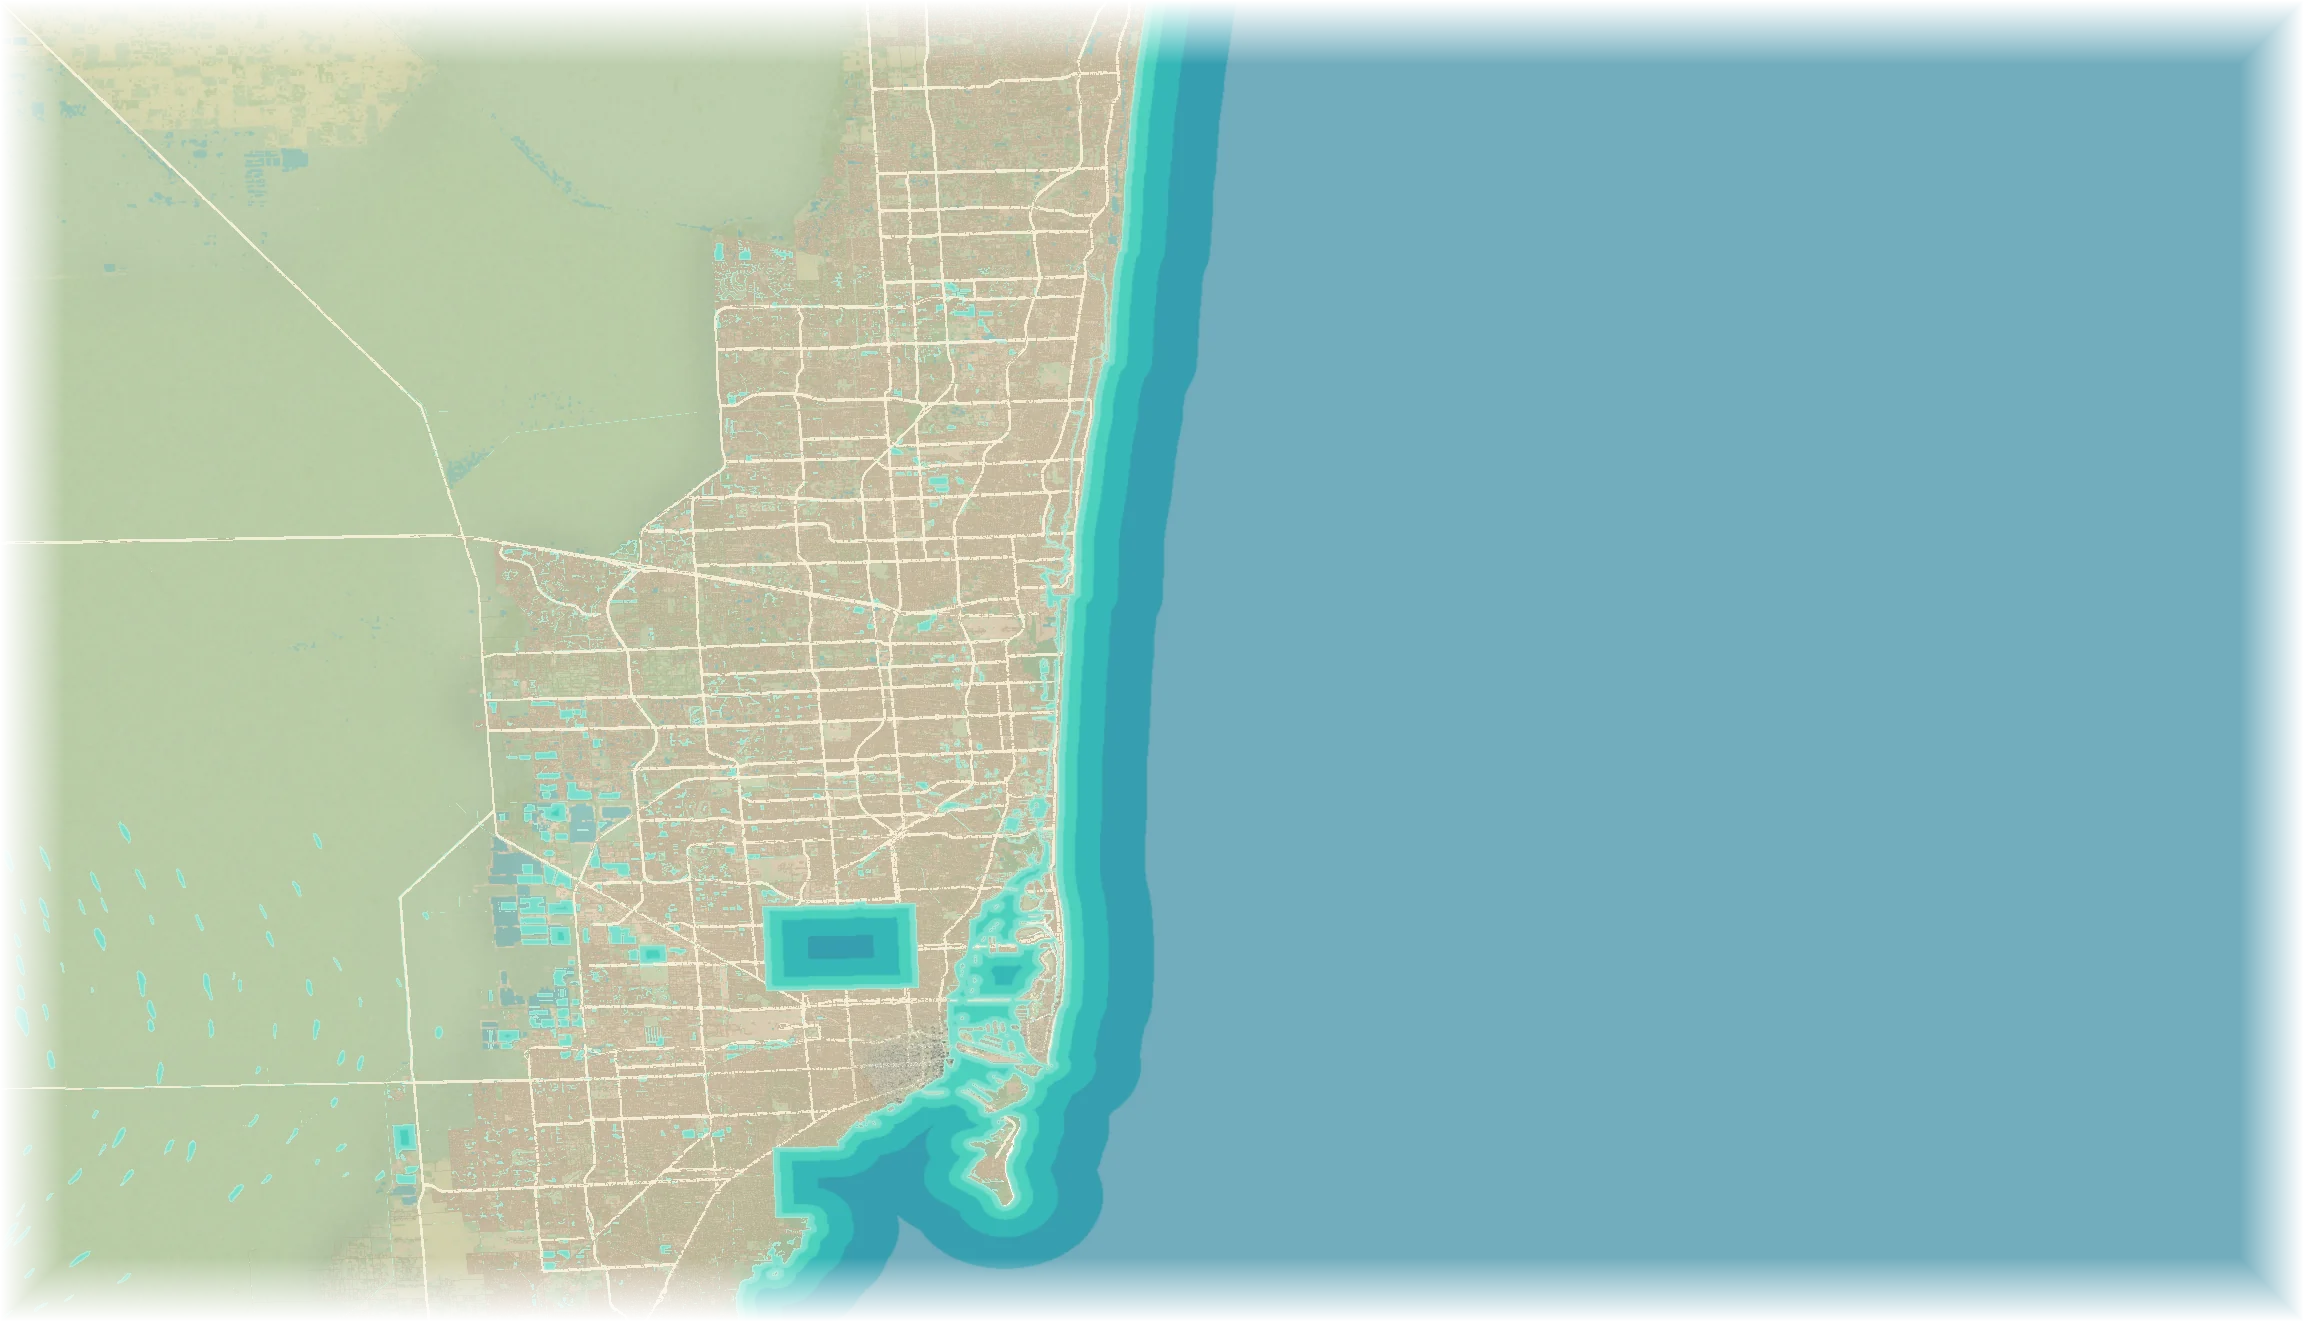
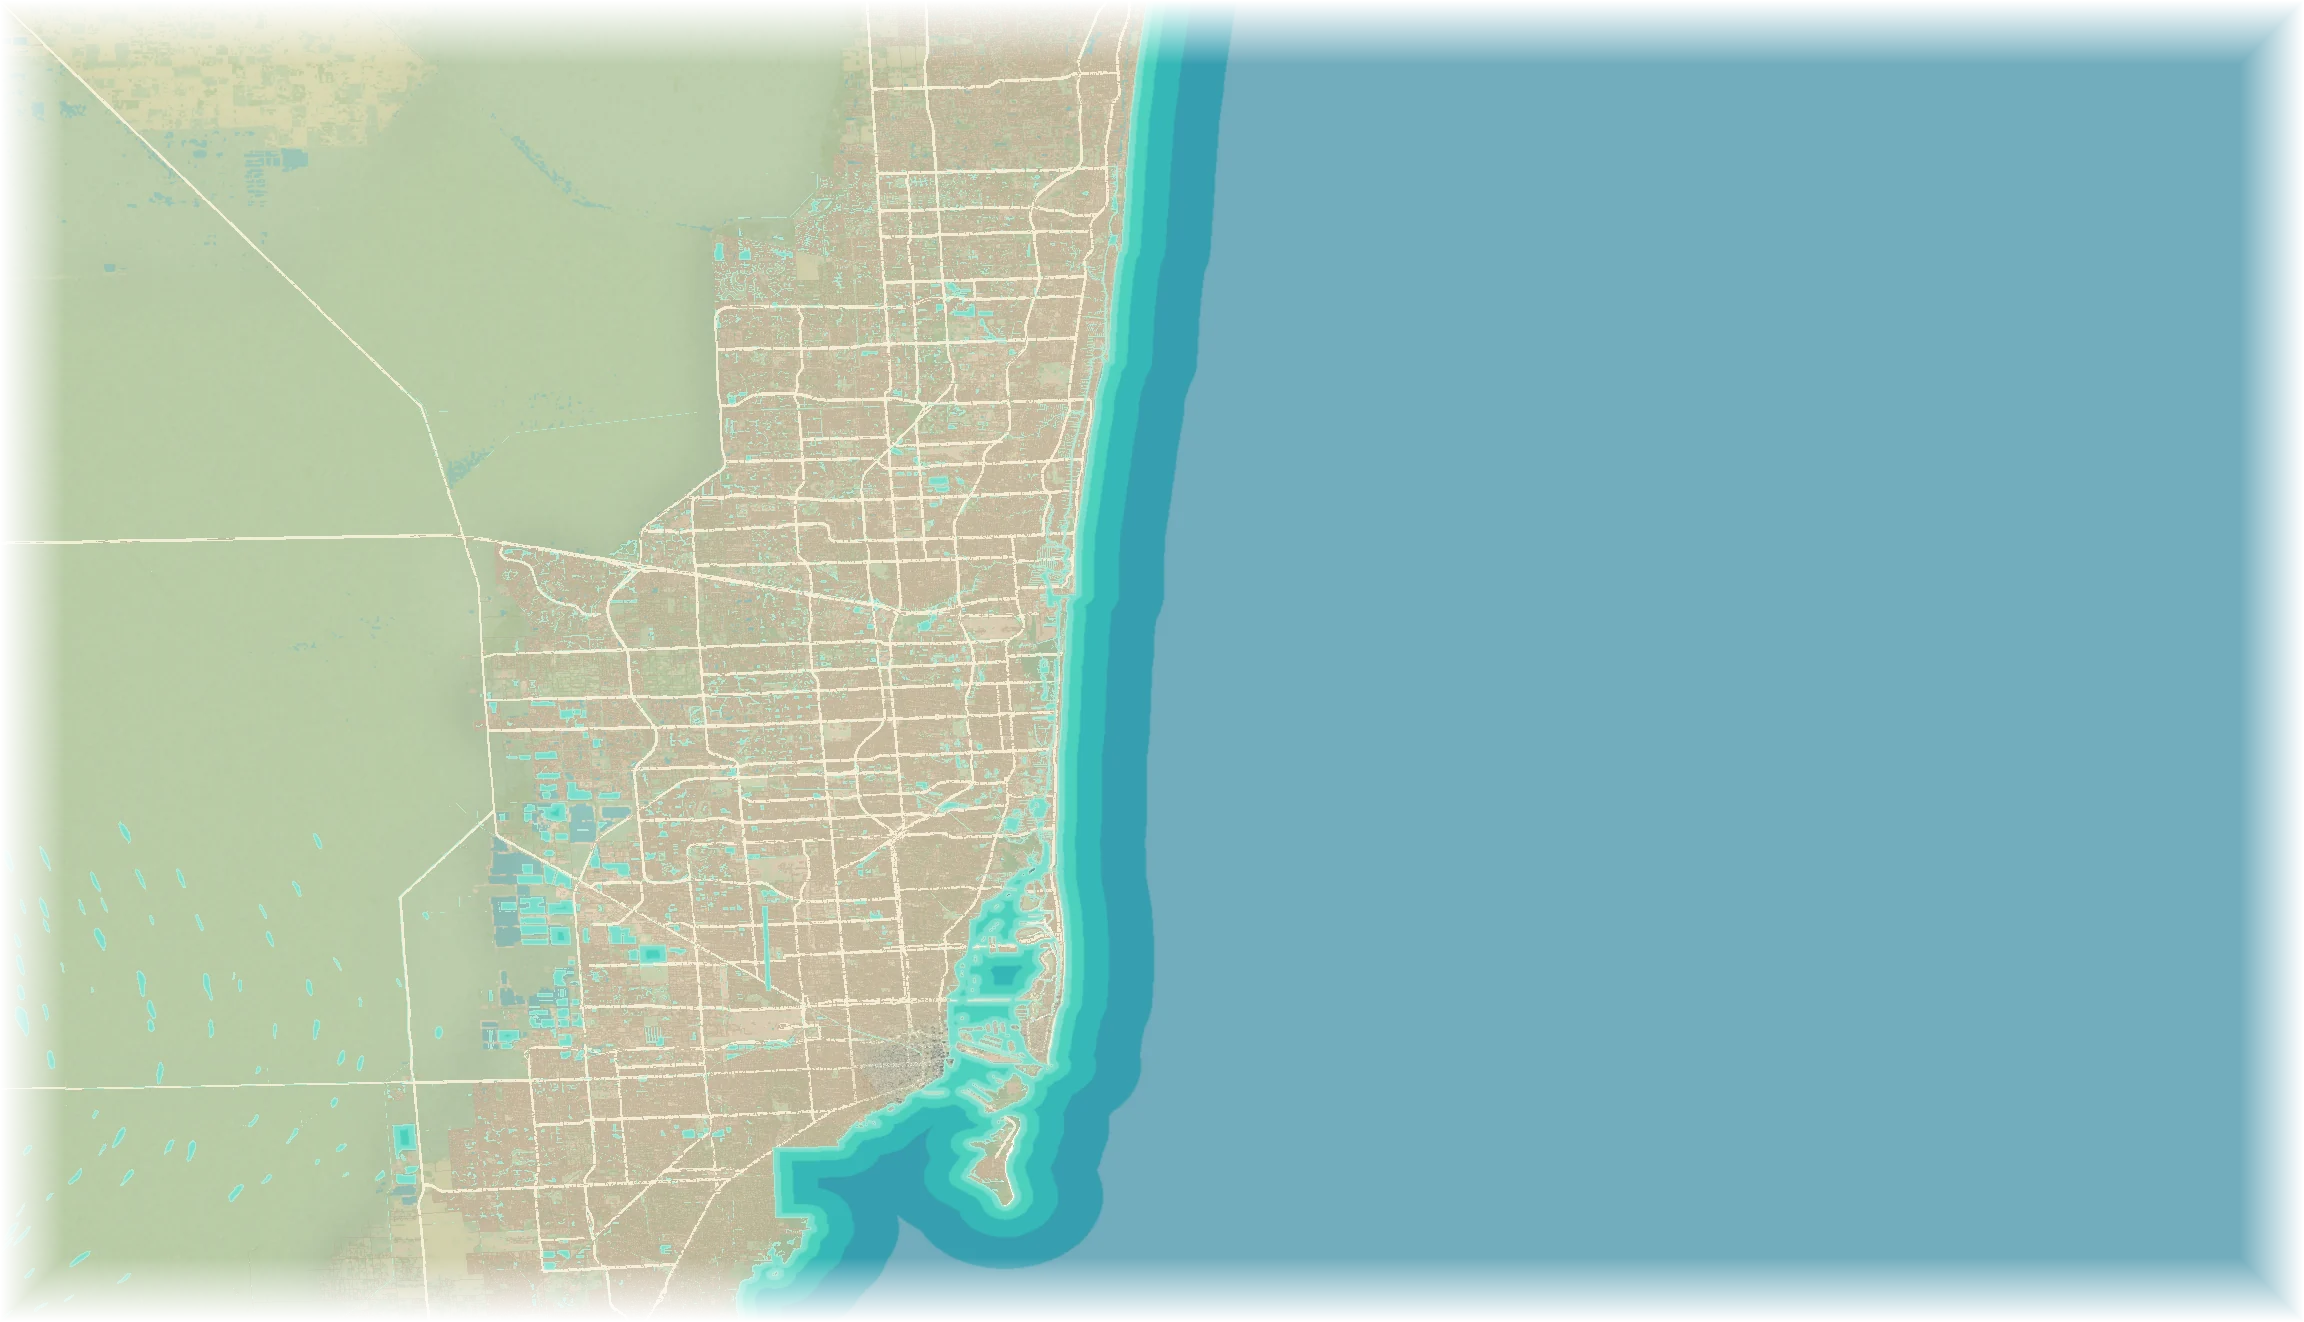
Remove false rectangular water hole from Miami regional map

Changed region(s): [[0.3125, 0.6823, 0.4062, 0.7753], [0.3438, 0.1551, 0.375, 0.1861]]

diff --git a/atlas/pipeline/build_regional_illustrations.py b/atlas/pipeline/build_regional_illustrations.py
@@ -91,6 +91,9 @@ def render(selected=None):
   seen.add(key);clip=project(box(*m['bounds']));p=P/ip
   if not p.exists():continue
   local=project(shape(json.load(open(p)))).intersection(clip).simplify(.02,preserve_topology=True);land_shapes.extend([(mapping(clip),0),(mapping(local),255)])
+ # Complete source masks have priority over legacy rectangular coverage gaps.
+ for override in json.load(open(P/'regional-land-overrides.json')):
+  m=json.load(open(P/override['manifest']));clip=project(box(*m['bounds']));local=project(shape(json.load(open(P/m['inputs']['land']['path'])))).intersection(clip).simplify(.02,preserve_topology=True);land_shapes.extend([(mapping(clip),0),(mapping(local),255)])
  coverdir=P/'work/coastal_pipeline/raw/regional-landcover';covermeta=json.load(open(coverdir/'index.json'));tiles=[]
  for t in covermeta['tiles']:
   if t.get('absent'):continue
@@ -162,7 +165,7 @@ def render(selected=None):
   else:results[rid]=entry
   print('RENDERED',rid,W,H,entry['bytes'],flush=True)
  for file in out.glob('*.webp'):shutil.copy2(file,A/'regions/images'/file.name)
- if not selected:(A/'regions/region-backdrop.json').write_text(json.dumps(backdrop_entry,indent=2)+'\n')
+ if not selected or '_backdrop' in selected:(A/'regions/region-backdrop.json').write_text(json.dumps(backdrop_entry,indent=2)+'\n')
  (A/'regions/region-images.json').write_text(json.dumps(results,indent=2)+'\n');(A/'regions/images/regional-style-report.json').write_text(json.dumps({'reference':S['reference'],'osm':json.load(open(D/'osm-source.json')),'landcover':{k:v for k,v in covermeta.items() if k!='tiles'},'regions':reports,'town_geometry_changed':False},indent=2)+'\n')
 if os_args[0]=='--extract':extract(Path(os_args[1]))
 elif os_args[0]=='--render':render(set(os_args[1:]) or None)

diff --git a/atlas/README.md b/atlas/README.md
@@ -270,3 +270,5 @@ Florida Keys Town models are now built for Key Largo, Islamorada and Key West. O
 Southwest Florida Coast has 15 individual Town views, reviewed at desktop and phone widths. Open `regions/packages/fort-myers-sanibel/atlas-review.html`. The nine newly built Fort Myers/Charlotte Harbor towns use spatial packages to stay below 4 MB per initial load; build with the existing engine, water wash and proof steps, then run `python split_town_packages.py fort-myers-sanibel`. This packaging stage preserves source triangle coordinates and materials; it does not simplify or restyle geometry. Physical-phone speed remains unmeasured.
 
 Miami and Fort Lauderdale now have all 12 individual Town views: Miami, South Beach, Bal Harbour, Sunny Isles Beach, North Miami Beach, Hallandale Beach, Hollywood, Dania Beach, Fort Lauderdale, Wilton Manors, Lauderdale-by-the-Sea and Lighthouse Point. Review `regions/packages/fort-lauderdale/atlas-review.html`. The original Miami package is unchanged. For the ten new towns, restore full-region inputs with `python fetch_inputs.py fort-lauderdale`, then run `python build_town_views.py fort-lauderdale` from `atlas/pipeline/`. This adapter bounds source land, land cover, roads and canopy per town, and calls the unchanged locked engine and accuracy checks. Root recipes and editorial files carry the district styles; mapped beach geometry has priority over overlapping park cover. Raw OSM, rasters and caches stay excluded.
+
+Regional land-mask priority is recorded in `pipeline/regional-land-overrides.json`. The complete Fort Lauderdale/northern Miami OSM source replaces the legacy inland Miami coverage hole for flat regional images and their backdrop. This fixes the false rectangular lake without changing any approved Town package.
